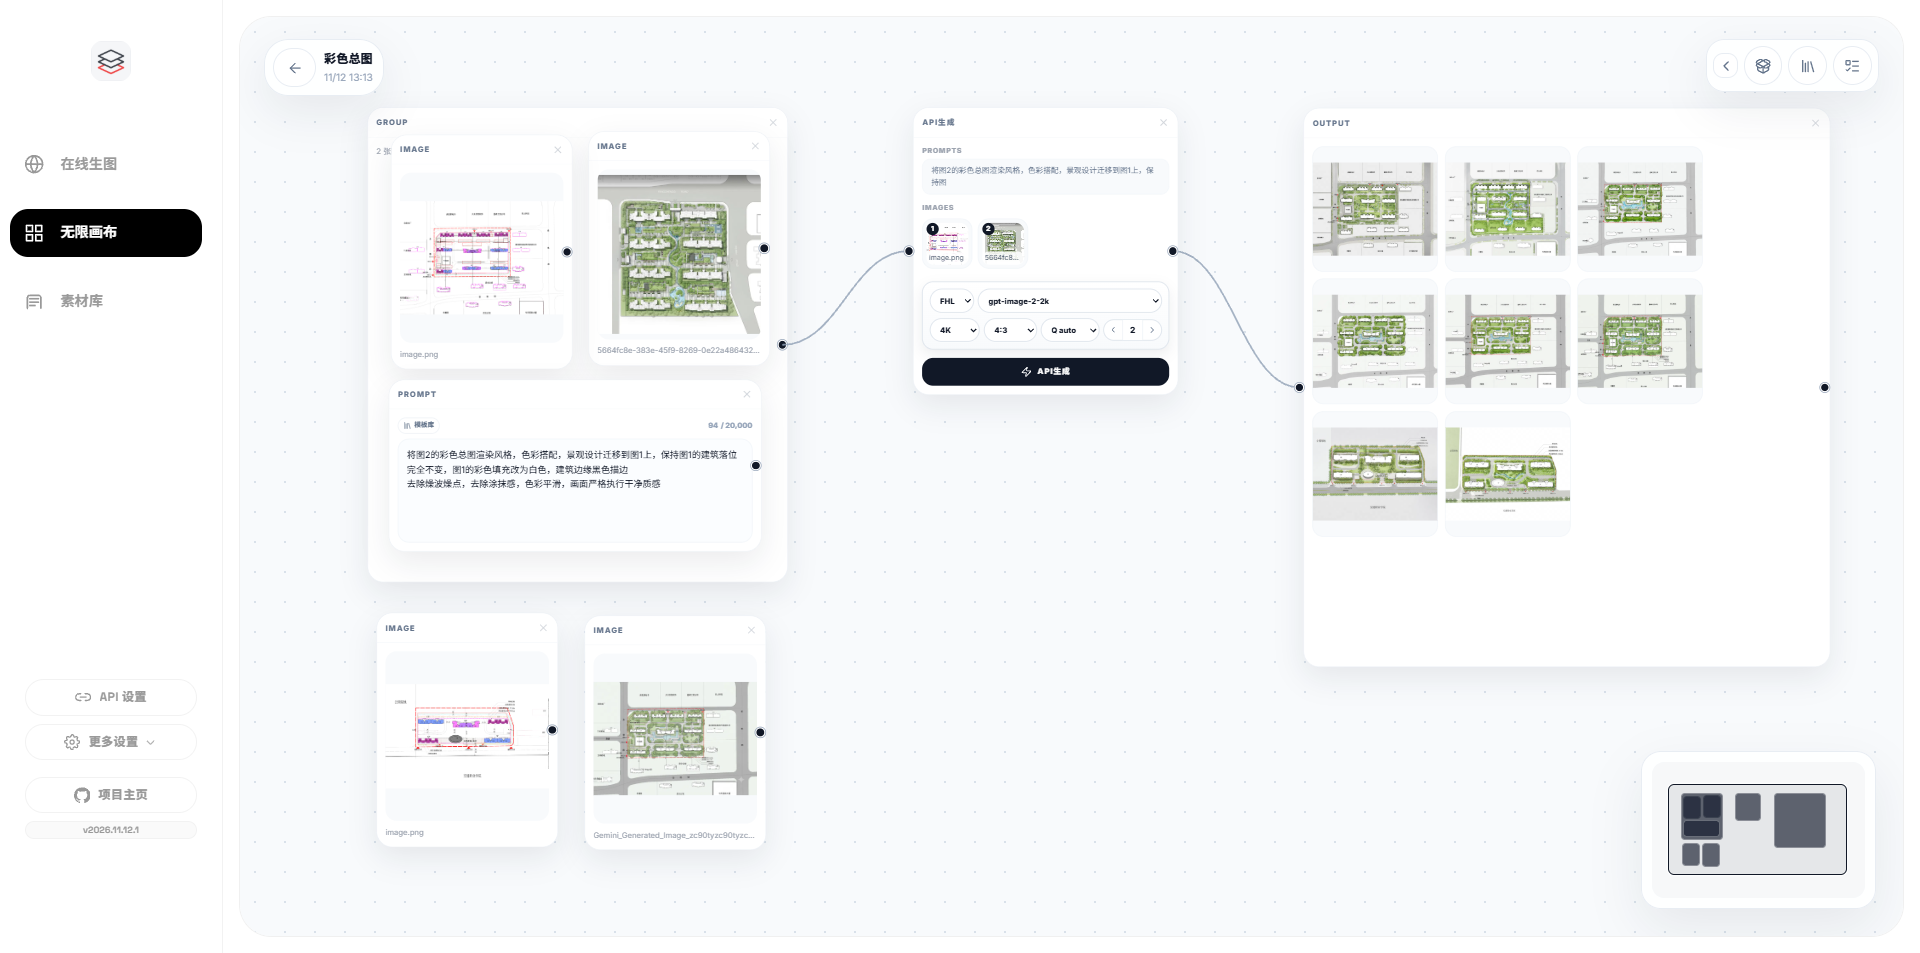
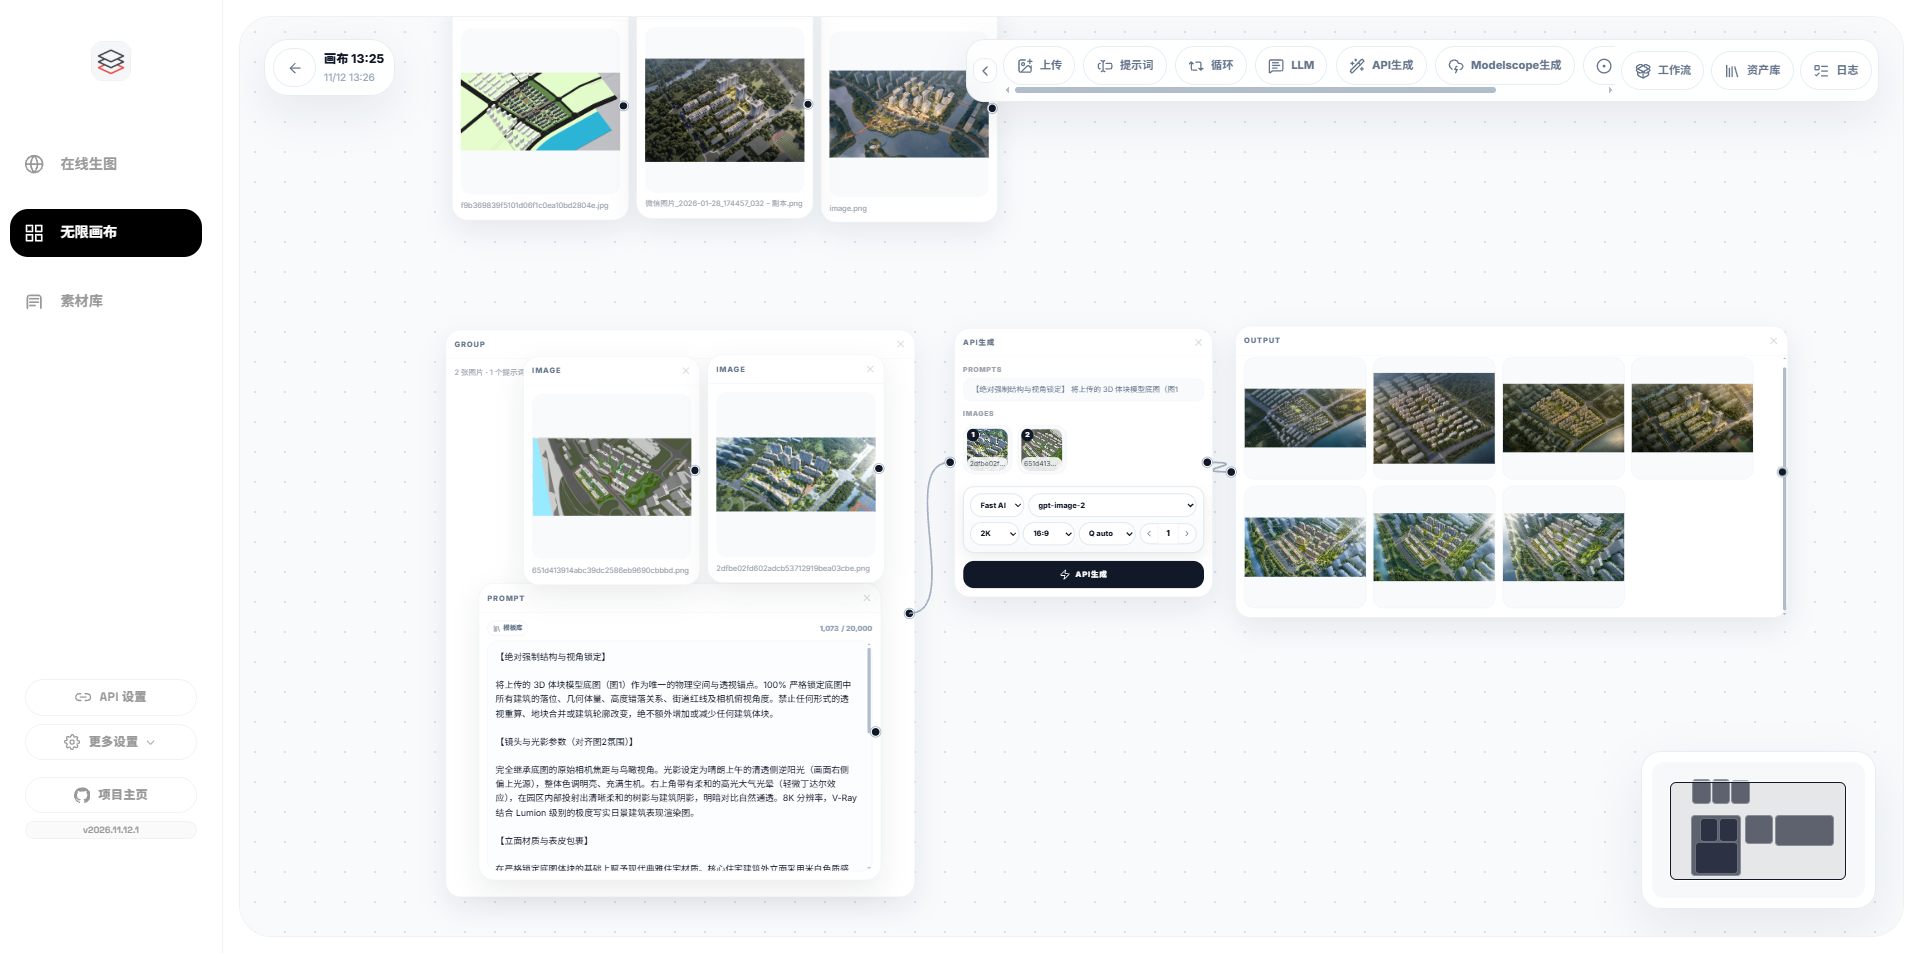
feat: 更新 README 界面预览、新增 PWA 清单与手机/平板访问说明

diff --git a/static/index.html b/static/index.html
@@ -3,8 +3,14 @@
 
 <head>
     <meta charset="UTF-8">
-    <meta name="viewport" content="width=device-width, initial-scale=1.0">
+    <meta name="viewport" content="width=device-width, initial-scale=1.0, viewport-fit=cover">
     <link rel="icon" href="/static/images/logo.png" type="image/png">
+    <link rel="manifest" href="/static/manifest.json">
+    <meta name="theme-color" content="#111827">
+    <link rel="apple-touch-icon" href="/static/images/apple-touch-icon.png">
+    <meta name="apple-mobile-web-app-capable" content="yes">
+    <meta name="apple-mobile-web-app-status-bar-style" content="default">
+    <meta name="apple-mobile-web-app-title" content="无限画布">
     <title>无限画布</title>
     <style>
         html.studio-route-booting body {

diff --git a/main.py b/main.py
@@ -1735,7 +1735,9 @@ def versioned_static_html(html: str) -> str:
     if not version:
         return html
     safe_version = urllib.parse.quote(version, safe="._-")
-    pattern = re.compile(r'(?P<prefix>(?:src|href)=["\']|@import\s+url\(["\'])(?P<url>/static/[^"\')?#]+(?:\.(?:js|css|html)))(?:\?v=[^"\')#]*)?', re.I)
+    # (?![\w]) 必须保留：否则 /static/manifest.json 会被 ".js" 规则截成 manifest.js?v=…on，
+    # 导致 PWA 清单 404（同理可防止 .html.json 之类复合扩展名被误改）。
+    pattern = re.compile(r'(?P<prefix>(?:src|href)=["\']|@import\s+url\(["\'])(?P<url>/static/[^"\')?#]+\.(?:js|css|html))(?![\w])(?:\?v=[^"\')#]*)?', re.I)
     def replace(match):
         url = match.group("url")
         cache_version = safe_version

diff --git a/tools/lan_ip.py b/tools/lan_ip.py
@@ -1,0 +1,30 @@
+"""打印本机在局域网中的 IPv4 地址，供 start.bat 提示手机 / 平板访问地址。
+
+优先取默认路由出口网卡（UDP connect 不发包），失败时回退到 hostname 解析。
+"""
+
+import socket
+import sys
+
+
+def lan_ip() -> str:
+    sock = socket.socket(socket.AF_INET, socket.SOCK_DGRAM)
+    try:
+        sock.connect(("8.8.8.8", 80))
+        return sock.getsockname()[0]
+    except OSError:
+        pass
+    finally:
+        sock.close()
+    try:
+        return socket.gethostbyname(socket.gethostname())
+    except OSError:
+        return "127.0.0.1"
+
+
+if __name__ == "__main__":
+    ip = lan_ip()
+    if len(sys.argv) > 1 and sys.argv[1] == "--quiet":
+        print(ip)
+    else:
+        print(ip)

diff --git a/README.md b/README.md
@@ -35,28 +35,46 @@ python3 main.py    # macOS / Linux（需先 pip3 install -r requirements.txt）
 
 无限画布是一款本地运行的 AI 创作画布工具，以 Python + FastAPI 为后端、原生前端为界面，支持调用各类 OpenAI 协议 API、ModelScope 免费模型等，把生成、编辑、整理、沉淀整合到一张无限画布上。
 
-## 画布预览
+## 界面预览
 
-一张无限画布，把「生成 → 编辑 → 整理 → 沉淀」串成一条流：节点自由摆放、连线组合，文生图 / 图生图 / 局部重绘 / 扩展出图 / 九宫格多视角都在画布上完成，生成结果随手沉淀进素材库。
+四个模块共用同一套侧栏：**自定义工作流 → 在线生图 → 无限画布 → 素材库**，生成、编辑、整理、沉淀串成一条流。
 
 > 以下为界面功能展示截图。
 
 <p align="center">
-  <img width="860" alt="无限画布总览" src="docs/screenshots/canvas-overview.png" />
+  <b>自定义工作流</b> · 四个内置模板可改标题、画幅、节点与提示词，支持关键词批量替换与另存
+  <br />
+  <img width="900" alt="自定义工作流界面" src="docs/screenshots/custom-workflow.png" />
 </p>
+
 <p align="center">
-  <img width="720" alt="在线生图界面" src="docs/screenshots/canvas-nodes.png" />
+  <b>在线生图</b> · 参考图 1-9 张自定义，每张带 IMAGE 编号，写 Prompt 时直接指代
+  <br />
+  <img width="900" alt="在线生图界面" src="docs/screenshots/online-studio.png" />
+</p>
+
+<p align="center">
+  <b>无限画布</b> · 节点自由摆放、连线组合，文生图 / 图生图 / 局部重绘 / 扩展出图 / 九宫格多视角
+  <br />
+  <img width="900" alt="无限画布界面" src="docs/screenshots/canvas-overview.png" />
+</p>
+
+<p align="center">
+  <b>素材库</b> · 分组管理、批量整理、智能分类，也可推送到在线平台
+  <br />
+  <img width="900" alt="素材库界面" src="docs/screenshots/asset-library.png" />
 </p>
 
 ## 功能特性
 
-1. 无限画布：节点式创作流，支持文生图 / 图生图 / 局部重绘 / 扩展出图 / 九宫格多视角等
-2. 在线生图：直连云端 API 生成
-3. 素材库：本地素材分组管理，支持 Chrome 批量采集插件、Photoshop 直连插件（tools 目录）
-4. API 设置：管理各平台地址、模型列表与 Key（Key 写入后端 env，页面不回显）
-5. 一键更新：从 GitHub 仓库自动下载新版本（更新前自动备份，可回滚）
-6. 支持几乎所有 OpenAI 协议的 API / 异步协议 / Gemini 协议 / 方钩协议
-7. 支持 ModelScope 免费 LLM 与图像模型调用
+1. 自定义工作流：四个内置模板可自行定制（标题、说明、画幅、节点名称、提示词），支持关键词批量替换、模板另存与还原
+2. 无限画布：节点式创作流，支持文生图 / 图生图 / 局部重绘 / 扩展出图 / 九宫格多视角等
+3. 在线生图：直连云端 API 生成，参考图片支持 1-9 张自定义并带 IMAGE 编号，写 Prompt 时可直接指代
+4. 素材库：本地素材分组管理，支持 Chrome 批量采集插件、Photoshop 直连插件（tools 目录）
+5. API 设置：管理各平台地址、模型列表与 Key（Key 写入后端 env，页面不回显）
+6. 一键更新：从 GitHub 仓库自动下载新版本（更新前自动备份，可回滚）
+7. 支持几乎所有 OpenAI 协议的 API / 异步协议 / Gemini 协议 / 方钩协议
+8. 支持 ModelScope 免费 LLM 与图像模型调用
 
 ## 快速开始
 
@@ -88,6 +106,21 @@ python3 main.py
 > macOS 首次运行如遇权限提示，请先执行 `mac-修复权限.command`。
 
 首次使用请进入「API 设置」配置可用的 API 平台与 Key，保存后即可在画布上调用 OpenAI 协议、ModelScope、火山引擎、即梦等平台的图像与对话能力。
+
+## 手机 / 平板访问
+
+程序默认监听 `0.0.0.0`，**同一个 Wi-Fi 下的手机、平板用浏览器就能打开**，无需安装任何 App：
+
+1. 电脑上双击 `start.bat`，控制台除了本机地址，还会打印一行
+   `Same Wi-Fi (phone/tablet): http://192.168.x.x:3000/`
+2. iPad / iPhone 用 **Safari** 打开该地址；Android 用 **Chrome** 打开
+3. 浏览器菜单里选择「添加到主屏幕 / 安装应用」，即可全屏运行（已内置 Web App 清单、图标与深色状态栏）
+
+**边界说明**：
+
+- 数据、素材与 API Key 都存在这台电脑上，电脑关机或退出程序后手机 / 平板无法访问；跨网络访问需自建端口映射或内网穿透，请自行评估安全风险
+- 平板适合预览、在线生图、模板定制；画布的节点拖拽与双指缩放目前以鼠标 / 触控板为主，触屏手势仍在完善
+- 安卓端如需**完全离线（不依赖电脑）**，可在 Termux 里运行 `python main.py`（需自行安装依赖），原生 APK 需重写渲染层，暂不支持
 
 ## 配套工具
 
